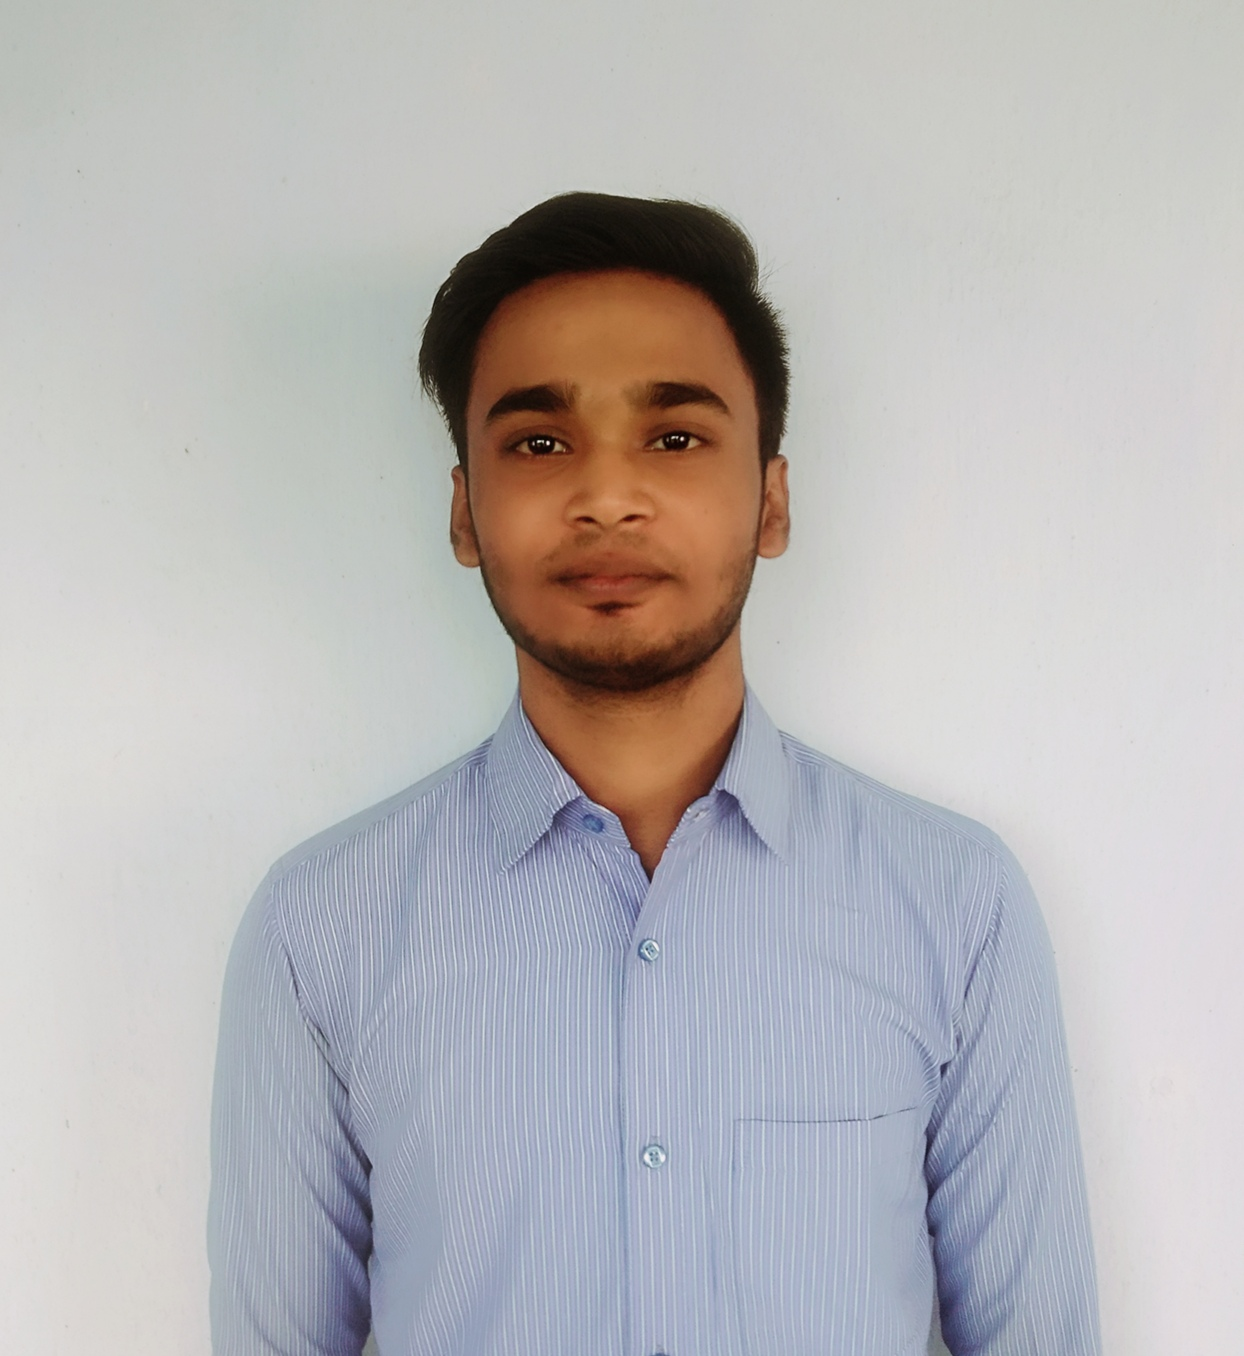
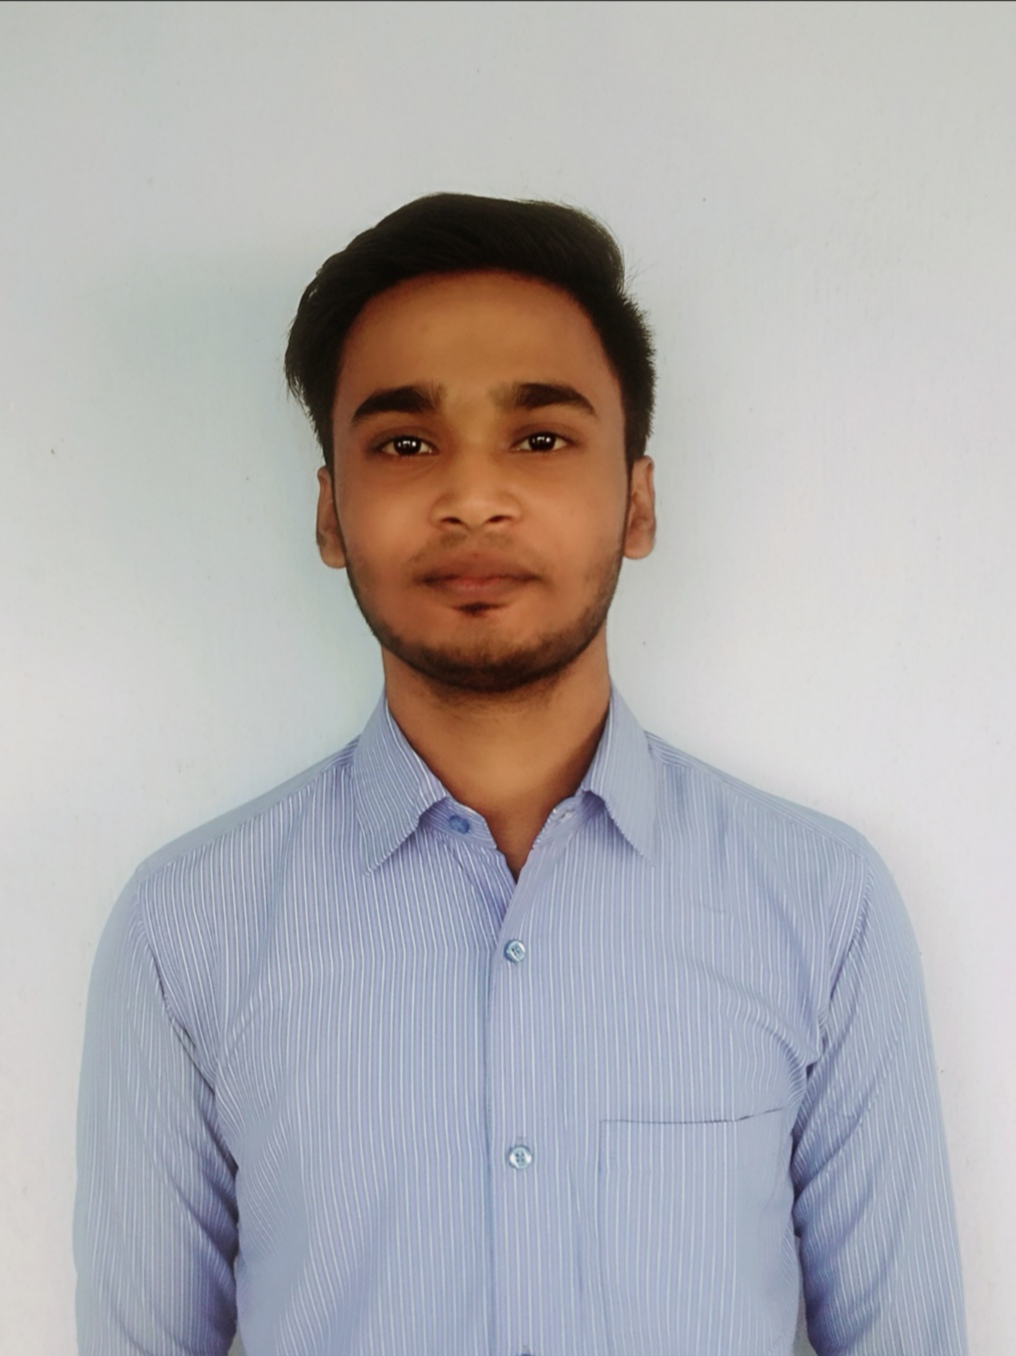
Profile picture size updated

diff --git a/src/pages/about/about.component.jsx b/src/pages/about/about.component.jsx
@@ -17,7 +17,7 @@ const About = () => {
         <Row className="pt-3 pb-5 align-items-center">
           {/* Profile Picture */}
           <Col xs={12} md={6}>
-            <Row className="justify-content-center mb-2 mr-2">
+            <Row className="justify-content-center mr-2 mb-2 ml-2">
               <Image
                 className="profile justify-content-end"
                 alt="profile"

diff --git a/src/pages/about/about.style.css b/src/pages/about/about.style.css
@@ -4,7 +4,7 @@
 }
 
 .profile {
-  max-width: 22em;
+  max-width: 19em;
 }
 
 .my-details {
